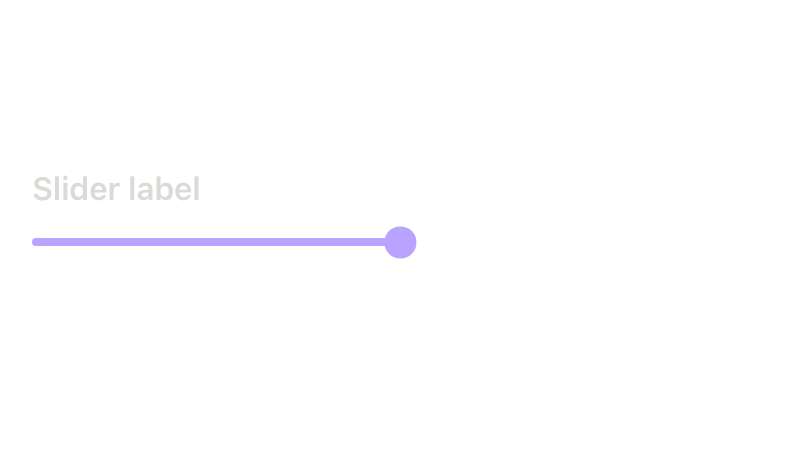
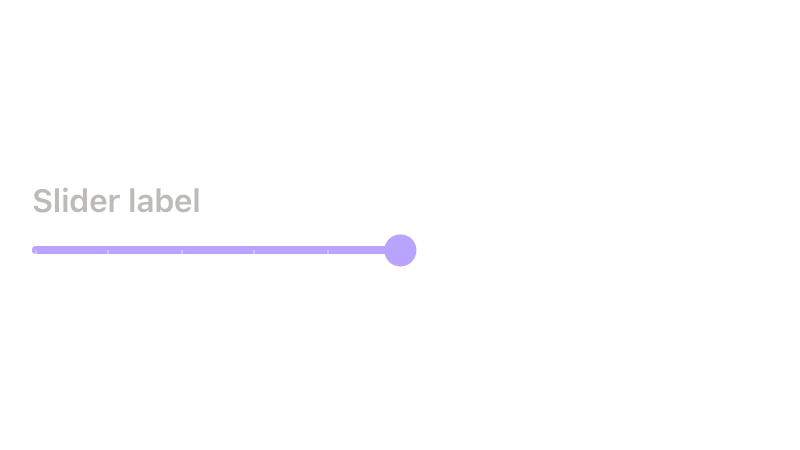
spacing nits

Changed region(s): [[0.0312, 0.4978, 0.5312, 0.5911], [0.0312, 0.3733, 0.25, 0.4667]]

diff --git a/packages/dialtone-css/lib/build/less/components/slider.less b/packages/dialtone-css/lib/build/less/components/slider.less
@@ -23,6 +23,10 @@
 //  $  SLIDER
 //  ============================================================================
 .d-slider {
+    display: flex;
+    flex-direction: column;
+    gap: 0;
+    inline-size: 100%;
     //  Component CSS vars — override these for size/state modifiers
     --slider-track-height: var(--dt-size-border-300);         // 4px
     --slider-track-color: var(--dt-color-border-default);
@@ -57,7 +61,7 @@
     --slider-tick-width: var(--dt-size-border-100); // 1px
     --slider-boundary-color: var(--dt-color-foreground-tertiary);
     --slider-track-length: var(--dt-layout-300);               // 192px — used as block-size in vertical mode
-    --slider-mark-offset: var(--dt-spacing-200);               // gap from track/thumb to marks & readout
+    --slider-mark-offset: var(--dt-spacing-150);               // gap from track/thumb to marks & readout
 
     // link-primary's dark-theme value is still too close to the canvas for
     // readout-sized text (it's tuned for links inside body copy, not a bold
@@ -67,11 +71,6 @@
     [data-dt-theme="dark"] & {
         --slider-readout-color: var(--dt-color-foreground-primary);
     }
-
-    display: flex;
-    flex-direction: column;
-    gap: 0;
-    inline-size: 100%;
 }
 
 //  $$  LABEL
@@ -90,7 +89,7 @@
     gap: var(--dt-spacing-200);
     align-items: center;
     inline-size: 100%;
-    margin-block-start: var(--dt-spacing-100-negative);
+    // margin-block-start: var(--dt-spacing-100-negative);
 }
 
 // Marks/readout (see below) are position:absolute against .d-slider__control,
@@ -142,15 +141,6 @@
     overflow: clip;
     cursor: default;
     block-size: var(--slider-thumb-size);
-
-    // Minimum WCAG 2.5.5 touch target via padding
-    // A bare `0` is a <number>, not a <length> — max() can't mix that with the
-    // calc()'s length result, so the whole declaration becomes invalid at
-    // computed-value time and silently falls back to 0, defeating the WCAG
-    // 2.5.5 touch target this is meant to guarantee. calc(--dt-spacing-base * 0)
-    // is a zero typed as a length (same pattern the sm/lg size modifiers below
-    // use for their own --dt-spacing-base arithmetic).
-    padding-block: max(calc(var(--dt-spacing-base) * 0), calc((var(--dt-spacing-550) - var(--slider-thumb-size)) / 2));
     /* stylelint-disable-next-line meowtec/no-px */
     overflow-clip-margin: 32px;
 }
@@ -304,7 +294,7 @@
     block-size: var(--dt-spacing-50);
     background-color: var(--slider-tick-color);
     inset-block-start: 50%;
-    margin-block-start: calc(var(--slider-track-height) / 2 + var(--dt-size-border-100));
+    // margin-block-start: calc(var(--slider-track-height) / 2 + var(--dt-size-border-100));
     pointer-events: none;
 }
 
@@ -405,6 +395,7 @@
     display: none;
     margin: 0;
     overflow: visible;
+    font-variant-numeric: tabular-nums;
     border: 0;
     pointer-events: none;
     inset: auto;

diff --git a/packages/dialtone-vue/components/Slider/Slider.vue b/packages/dialtone-vue/components/Slider/Slider.vue
@@ -39,7 +39,7 @@
           kind="label"
           :size="resolvedLabelSize"
           :strength="labelStrength"
-          :tone="disabled ? 'disabled' : 'primary'"
+          :tone="disabled ? 'disabled' : 'secondary'"
         >
           {{ label }}
         </dt-text>

diff --git a/apps/dialtone-documentation/docs/scratch.md b/apps/dialtone-documentation/docs/scratch.md
@@ -3,6 +3,75 @@ layout: Blank
 ---
 
 <dt-stack class="d-p-400 d-bgc-primary" gap="400">
+  <dt-box inline-size="600" class="d-of-hidden">
+    <dt-stack gap="200" class="d-w100p foof">
+      <dt-input label="Label" />
+      <dt-input label="Label" />
+      <dt-slider :model-value="50" label="Label" />
+      <dt-slider :model-value="[20, 70]" label="Label" />
+      <dt-select-menu
+        :options="[
+              { value: ``, label: `Please select one` },
+              { value: `1`, label: `Option 1` },
+              { value: `2`, label: `Option 2` },
+              { value: `3`, label: `Option 3` },
+            ]"
+        label="Default"
+        :model-value="modelValue"
+        @update:model-value="onInput"
+      />
+      <dt-select-menu
+        :options="[
+              { value: ``, label: `Please select one` },
+              { value: `1`, label: `Option 1` },
+              { value: `2`, label: `Option 2` },
+              { value: `3`, label: `Option 3` },
+            ]"
+        label="Disabled"
+        disabled
+        :model-value="modelValue"
+        @update:model-value="onInput"
+      />
+      <dt-slider
+        :model-value="[20, 70]"
+        label="Price range"
+        :show-marks="[{ value: 0, text: 'Min $0' }, { value: 100, text: 'Max $100' }]"
+        :get-value-text="(value, index) => index === 0 ? `Minimum: $${value}` : `Maximum: $${value}`"
+      />
+      <dt-input label="Label" />
+      <dt-slider
+        :model-value="7"
+        label="Rating"
+        :min="0"
+        :max="10"
+        :step="1"
+        :show-ticks="1"
+      />
+      <dt-slider
+        :model-value="0"
+        label="Balance"
+        :min="-100"
+        :max="100"
+        :show-marks="[{ value: -100, text: '−100' }, { value: 0, text: '0' }, { value: 100, text: '100' }]"
+        :show-ticks="25"
+      />
+      <dt-slider :model-value="30" label="Volume (disabled)" disabled />
+      <dt-slider
+        :model-value="7"
+        label="Rating"
+        :min="0"
+        :max="10"
+        :step="1"
+        :show-ticks="1"
+        :show-marks="true"
+      />
+      <dt-slider :model-value="48" label="Volume" />
+      <dt-input label="Label" />
+      <dt-slider :model-value="48" label="Volume" readout="always" />
+      <dt-slider :model-value="48" label="Volume" readout="interaction" />
+      <dt-input label="Label" />
+    </dt-stack>
+  </dt-box>
   <dt-stack gap="100">
     <dt-box>
       <dt-toggle label-class="d-pie-100" size="200">Label</dt-toggle>
@@ -767,6 +836,13 @@ layout: Blank
 </dt-stack>
 
 </dt-stack>
+
+<style lang="less">
+  .foof:hover > * {
+    background-color: var(--dt-color-surface-moderate-opaque)
+  }
+
+</style>
 
 <script setup>
 import { ref, computed } from 'vue';

diff --git a/apps/dialtone-documentation/docs/components/slider.md b/apps/dialtone-documentation/docs/components/slider.md
@@ -256,6 +256,7 @@ In range mode with `always` or `interaction`, the two thumbs' readouts merge int
 <!-- @wrapper -->
 <dt-stack gap="300" class="d-w100p">
   <dt-slider :model-value="48" label="Volume" />
+  <dt-slider :model-value="48" label="Volume" readout="never" />
   <dt-slider :model-value="48" label="Volume" readout="always" />
   <dt-slider :model-value="48" label="Volume" readout="interaction" />
 </dt-stack>
@@ -291,7 +292,7 @@ To render the value somewhere custom outside the component instead, set `readout
 <!-- @wrapper -->
 <dt-stack gap="200" class="d-w100p">
   <dt-slider v-model="externalReadoutValue" label="Zoom" readout="never" />
-  <dt-text size="200" tone="subtle">{{ externalReadoutValue }}%</dt-text>
+  <dt-text size="200" tone="subtle">Zoom level is set to <dt-text strength="strong" numeric>{{ externalReadoutValue }}%</dt-text></dt-text>
 </dt-stack>
 ```
 
